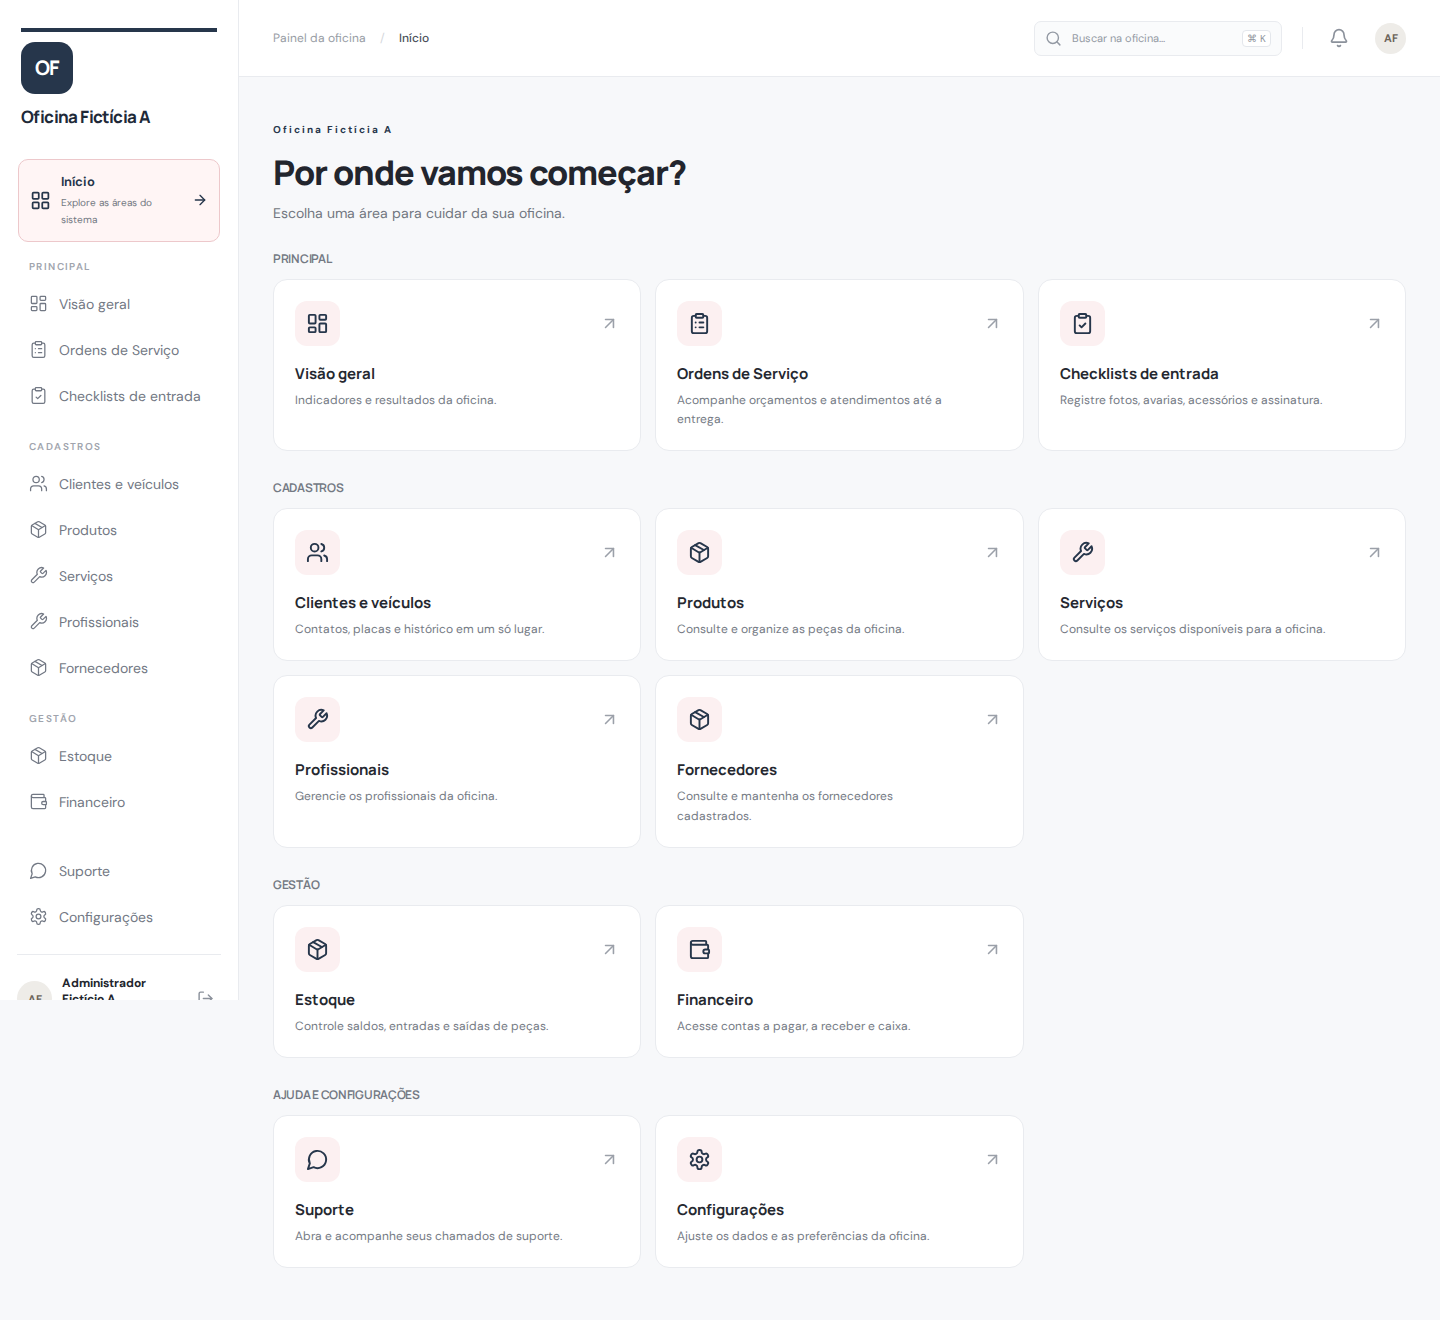
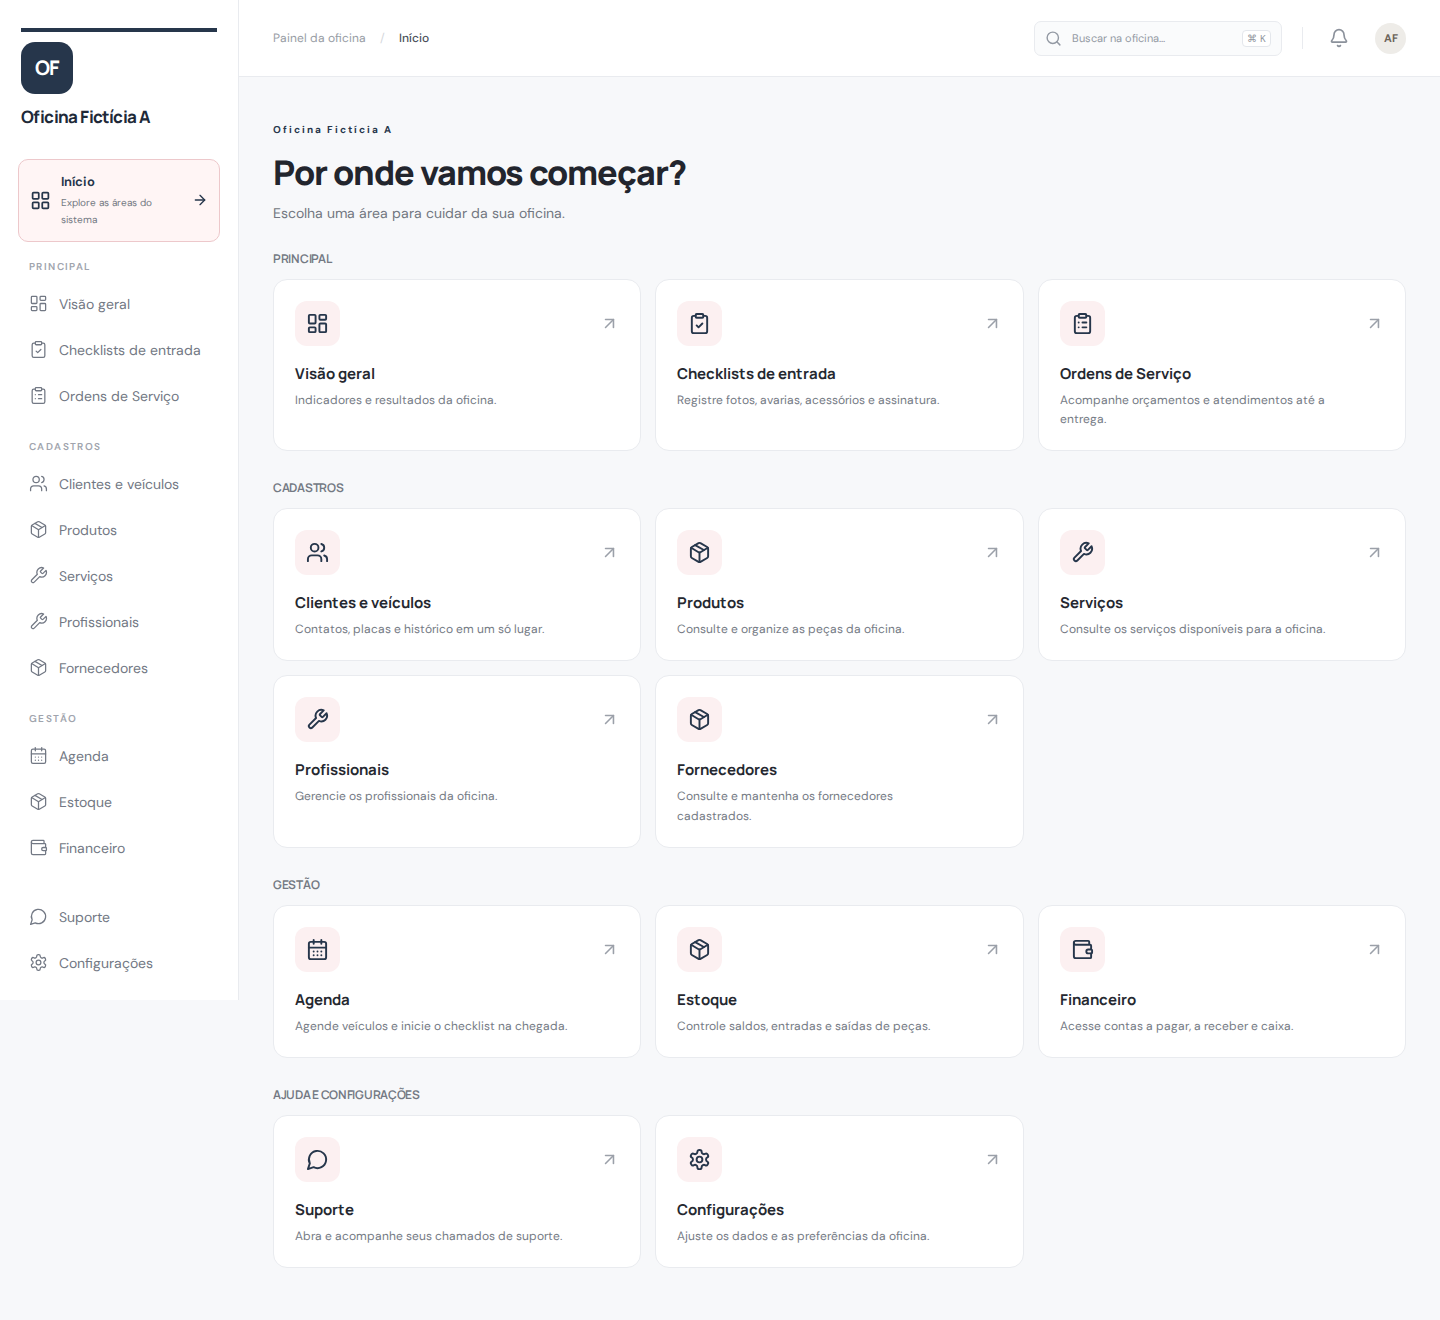
docs(visual): atualizar menu da oficina em desktop e celular

diff --git a/docs/mapeamento-visual/CHECKLIST.md b/docs/mapeamento-visual/CHECKLIST.md
@@ -8,7 +8,7 @@ Estados: capturada, pendente, bloqueada e não aplicável.
 |---|---|---|---|---|---|---|---|
 | gestao-resultados-periodo | Resultados da oficina | Resultados por intervalo — Filtro livre de datas, indicadores, metas e relatório PDF com dados fictícios da oficina. | — | não aplicável | 2026-11-14 | 96dfa252baed53629b2ed0b51f630ade3f588ebd | Módulo Resultados removido; usar os relatórios de Financeiro. |
 | login-oficina | Login e acesso | Login da oficina — Tela inicial de autenticação, sem usuário ou senha preenchidos. | [`capturas/01-login-acesso/login-oficina.png`](./capturas/01-login-acesso/login-oficina.png) | capturada | 2026-10-22 | não registrado | Captura real com dados fictícios feita em 22/10/2026. O commit de origem não foi registrado; recaptura Playwright e atualização do commit estão pendentes. |
-| inicio-oficina-a | Dashboard | Início da Oficina Fictícia A — Menu e atalhos da conta de demonstração. | [`capturas/02-dashboard/inicio-oficina.png`](./capturas/02-dashboard/inicio-oficina.png) | capturada | 2026-11-14 | c5aebc1bb00a73ac99f6575c8b39f25434b82278 | Captura Playwright no CI com oficina fictícia e PostgreSQL 17 temporário. |
+| inicio-oficina-a | Dashboard | Início da Oficina Fictícia A — Menu e atalhos da conta de demonstração. | [`capturas/02-dashboard/inicio-oficina.png`](./capturas/02-dashboard/inicio-oficina.png) | capturada | 2026-11-18 | 039e7d83f1850e150a4923cff716b71e7e67a14a | Captura Playwright no CI #984 com oficina fictícia e PostgreSQL 17 temporário; menu em ordem Visão geral, Checklists, Ordens de Serviço. |
 | dashboard-oficina-a | Dashboard | Visão geral da Oficina Fictícia A — Indicadores vazios da oficina de teste. | [`capturas/02-dashboard/dashboard-oficina.png`](./capturas/02-dashboard/dashboard-oficina.png) | capturada | 2026-10-22 | não registrado | Captura real com dados fictícios feita em 22/10/2026. O commit de origem não foi registrado; recaptura Playwright e atualização do commit estão pendentes. |
 | inicio-oficina-b | Dashboard | Início da Oficina Fictícia B — Menu e atalhos em uma segunda conta fictícia. | [`capturas/02-dashboard/inicio-oficina-oficina-b.png`](./capturas/02-dashboard/inicio-oficina-oficina-b.png) | capturada | 2026-10-22 | não registrado | Captura real com dados fictícios feita em 22/10/2026. O commit de origem não foi registrado; recaptura Playwright e atualização do commit estão pendentes. |
 | dashboard-oficina-b | Dashboard | Visão geral da Oficina Fictícia B — Indicadores da segunda conta fictícia para referência de isolamento. | [`capturas/02-dashboard/dashboard-oficina-b.png`](./capturas/02-dashboard/dashboard-oficina-b.png) | capturada | 2026-10-22 | não registrado | Captura real com dados fictícios feita em 22/10/2026. O commit de origem não foi registrado; recaptura Playwright e atualização do commit estão pendentes. |
@@ -42,7 +42,7 @@ Estados: capturada, pendente, bloqueada e não aplicável.
 | config-lucro-pecas | Configurações da oficina | Lucro de peças e terceiros — Faixas editáveis de peças e terceiros com simuladores que mostram o preço sugerido. | [`capturas/14-configuracoes/lucro-pecas-terceiros.png`](./capturas/14-configuracoes/lucro-pecas-terceiros.png) | capturada | 2026-11-14 | 3f53da28177e3d9d5cca9811e7a403e008863a9a | — |
 | login-painel-central | Painel Administrativo Central | Login do Painel Administrativo Central — Formulário vazio; nenhuma credencial ou código MFA aparece na captura. | [`capturas/17-painel-admin-central/login-admin-central.png`](./capturas/17-painel-admin-central/login-admin-central.png) | capturada | 2026-10-22 | não registrado | Captura real com dados fictícios feita em 22/10/2026. O commit de origem não foi registrado; recaptura Playwright e atualização do commit estão pendentes. |
 | login-oficina-desktop | Login e acesso | Login da oficina — Tela inicial de autenticação, sem usuário ou senha preenchidos. | `capturas/01-login-acesso/login-oficina-desktop.png` (previsto) | pendente | — | não registrado | Variante desktop ainda não foi gerada. Execute a captura Playwright em ambiente local de teste. |
-| inicio-oficina-a-desktop | Dashboard | Início da Oficina Fictícia A — Menu e atalhos da conta de demonstração. | [`capturas/02-dashboard/inicio-oficina-desktop.png`](./capturas/02-dashboard/inicio-oficina-desktop.png) | capturada | 2026-11-14 | c5aebc1bb00a73ac99f6575c8b39f25434b82278 | Captura Playwright no CI com oficina fictícia e PostgreSQL 17 temporário. |
+| inicio-oficina-a-desktop | Dashboard | Início da Oficina Fictícia A — Menu e atalhos da conta de demonstração. | [`capturas/02-dashboard/inicio-oficina-desktop.png`](./capturas/02-dashboard/inicio-oficina-desktop.png) | capturada | 2026-11-18 | 039e7d83f1850e150a4923cff716b71e7e67a14a | Captura Playwright no CI #984 com oficina fictícia e PostgreSQL 17 temporário; menu em ordem Visão geral, Checklists, Ordens de Serviço. |
 | dashboard-oficina-a-desktop | Dashboard | Visão geral da Oficina Fictícia A — Indicadores vazios da oficina de teste. | `capturas/02-dashboard/dashboard-oficina-desktop.png` (previsto) | pendente | — | não registrado | Variante desktop ainda não foi gerada. Execute a captura Playwright em ambiente local de teste. |
 | inicio-oficina-b-desktop | Dashboard | Início da Oficina Fictícia B — Menu e atalhos em uma segunda conta fictícia. | `capturas/02-dashboard/inicio-oficina-oficina-b-desktop.png` (previsto) | pendente | — | não registrado | Variante desktop ainda não foi gerada. Execute a captura Playwright em ambiente local de teste. |
 | dashboard-oficina-b-desktop | Dashboard | Visão geral da Oficina Fictícia B — Indicadores da segunda conta fictícia para referência de isolamento. | `capturas/02-dashboard/dashboard-oficina-b-desktop.png` (previsto) | pendente | — | não registrado | Variante desktop ainda não foi gerada. Execute a captura Playwright em ambiente local de teste. |

diff --git a/docs/mapeamento-visual/INDEX.md b/docs/mapeamento-visual/INDEX.md
@@ -80,7 +80,7 @@ Menu e atalhos da conta de demonstração.
 
 [![Início da Oficina Fictícia A](./capturas/02-dashboard/inicio-oficina.png)](./capturas/02-dashboard/inicio-oficina.png)
 
-Estado: capturada · mobile · captura 2026-11-14 · commit de origem: c5aebc1bb00a73ac99f6575c8b39f25434b82278 · [arquivo completo](./capturas/02-dashboard/inicio-oficina.png)
+Estado: capturada · mobile · captura 2026-11-18 · commit de origem: 039e7d83f1850e150a4923cff716b71e7e67a14a · [arquivo completo](./capturas/02-dashboard/inicio-oficina.png)
 
 ### Visão geral da Oficina Fictícia A
 
@@ -112,7 +112,7 @@ Menu e atalhos da conta de demonstração.
 
 [![Início da Oficina Fictícia A](./capturas/02-dashboard/inicio-oficina-desktop.png)](./capturas/02-dashboard/inicio-oficina-desktop.png)
 
-Estado: capturada · desktop · captura 2026-11-14 · commit de origem: c5aebc1bb00a73ac99f6575c8b39f25434b82278 · [arquivo completo](./capturas/02-dashboard/inicio-oficina-desktop.png)
+Estado: capturada · desktop · captura 2026-11-18 · commit de origem: 039e7d83f1850e150a4923cff716b71e7e67a14a · [arquivo completo](./capturas/02-dashboard/inicio-oficina-desktop.png)
 
 ## 03 — Clientes
 
